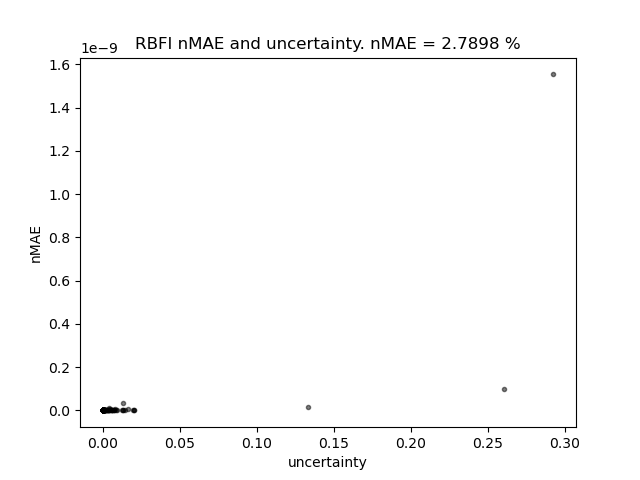
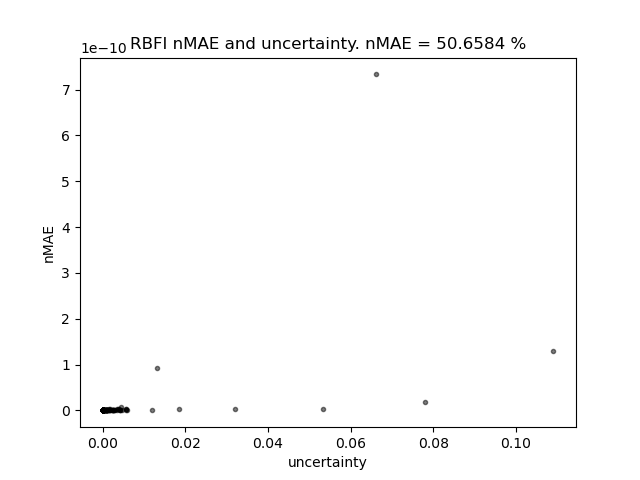
imgs

diff --git a/dynamic calibration/density based/prediction comparison.py b/dynamic calibration/density based/prediction comparison.py
@@ -64,6 +64,16 @@ def main(origin=np.array([-50., -50., 50.]), side_length=100., n_diag_points=50,
     # n is the number of points
     # each point is 14-dimensional: 3 positions, 3 orientations, 8 coils 
     
+    fig = plt.figure()
+    ax = fig.add_subplot(1, 1, 1, projection='3d')
+    plt.title("gathered points")
+    ax.scatter3D(dataset[:, 0], dataset[:, 1], dataset[:, 2], alpha=.1, marker='.')
+    ax.set_xlabel('x (mm)')
+    ax.set_ylabel('y (mm)')
+    ax.set_zlabel('z (mm)')
+    #plt.savefig('comparison.png')
+    plt.show()
+    
     np.random.shuffle(dataset)
     training = dataset[:int(.8*dataset.shape[0])]
     x_train, y_train = training[:, :6], training[:, 6:]
@@ -82,7 +92,7 @@ def main(origin=np.array([-50., -50., 50.]), side_length=100., n_diag_points=50,
     dictionary_with_performances = {}
     
     # to model the noise
-    alphas = [1e-10]#, 1e-9, 1e-8, 1e-7, 1e-6, 1e-5, 1e-4, 1e-3, 1e-2, 1e-1, 1., 10., 100.]
+    alphas = [1e-10, 1e-9, 1e-8, 1e-7, 1e-6, 1e-5, 1e-4, 1e-3, 1e-2, 1e-1, 1., 10., 100.]
     for alpha in alphas:
         
         # gaussian process regression
@@ -117,7 +127,7 @@ def main(origin=np.array([-50., -50., 50.]), side_length=100., n_diag_points=50,
         dictionary_with_performances["custom radial basis function interpolator " + str(alpha)] = {"alpha": alpha, 
                                                             "nmae": mae,
                                                             "nrmse": rmse,
-                                                            "uncertainty": unc,
+                                                            "uncertainty": unc_val,
                                                             "nmae per point": mae_per_point,
                                                             "nrmse per point": rmse_per_point,
                                                             "diag x preds": pred_x,
